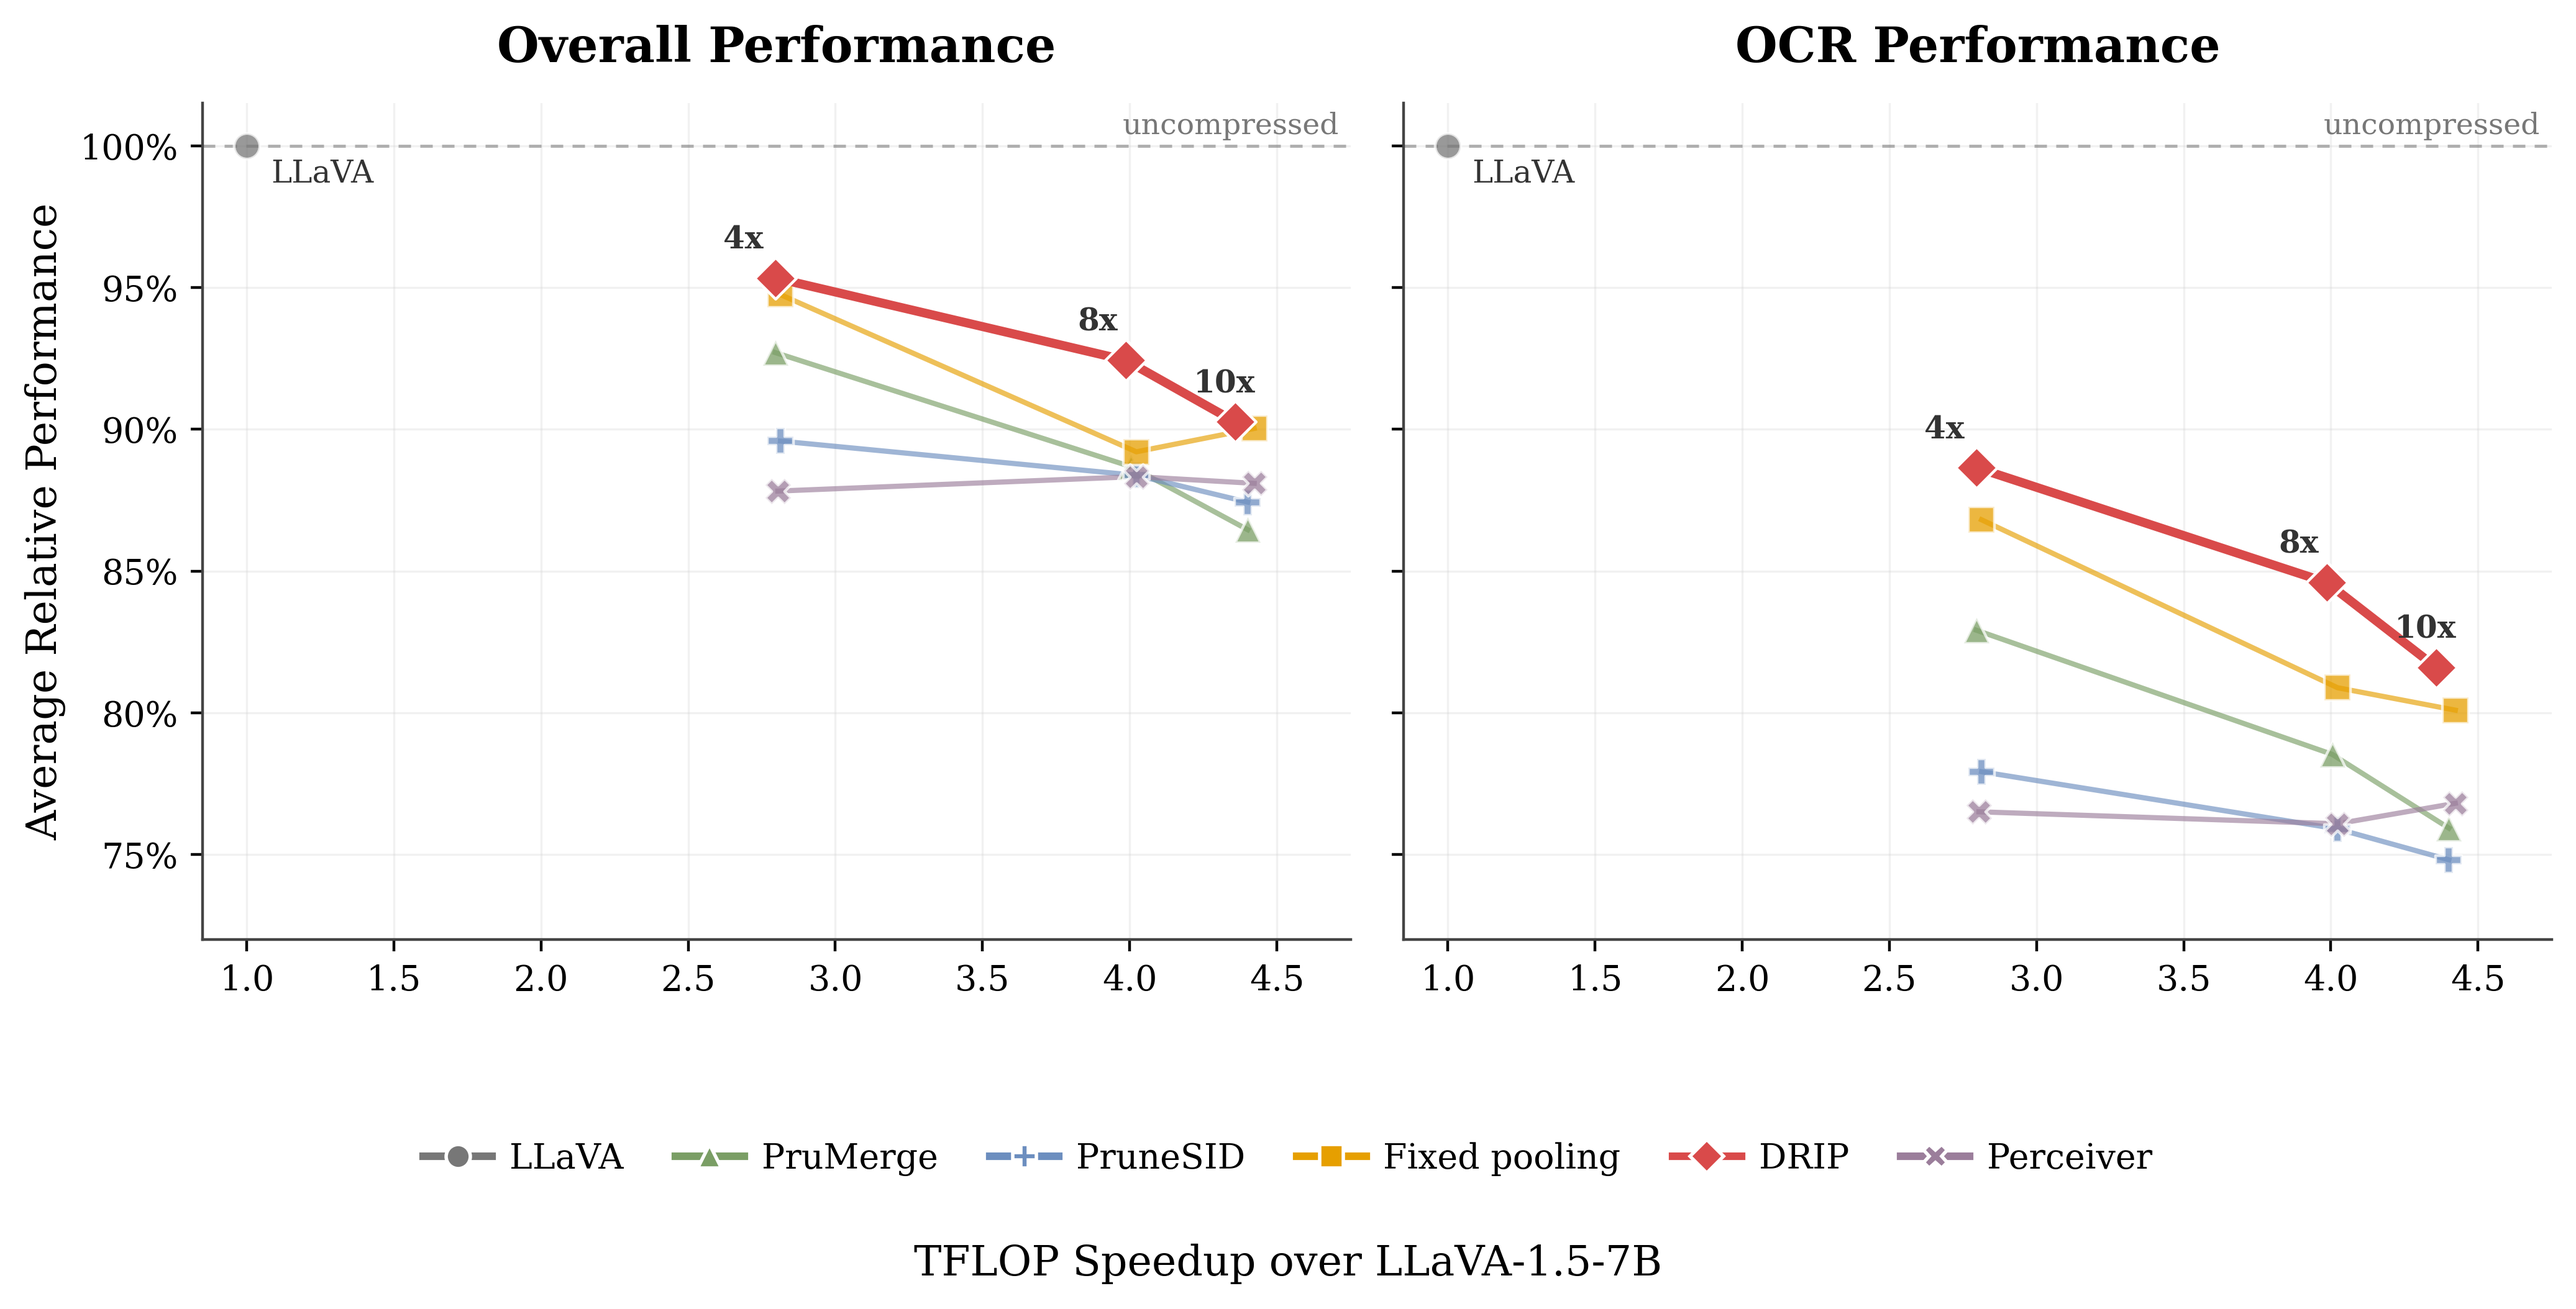
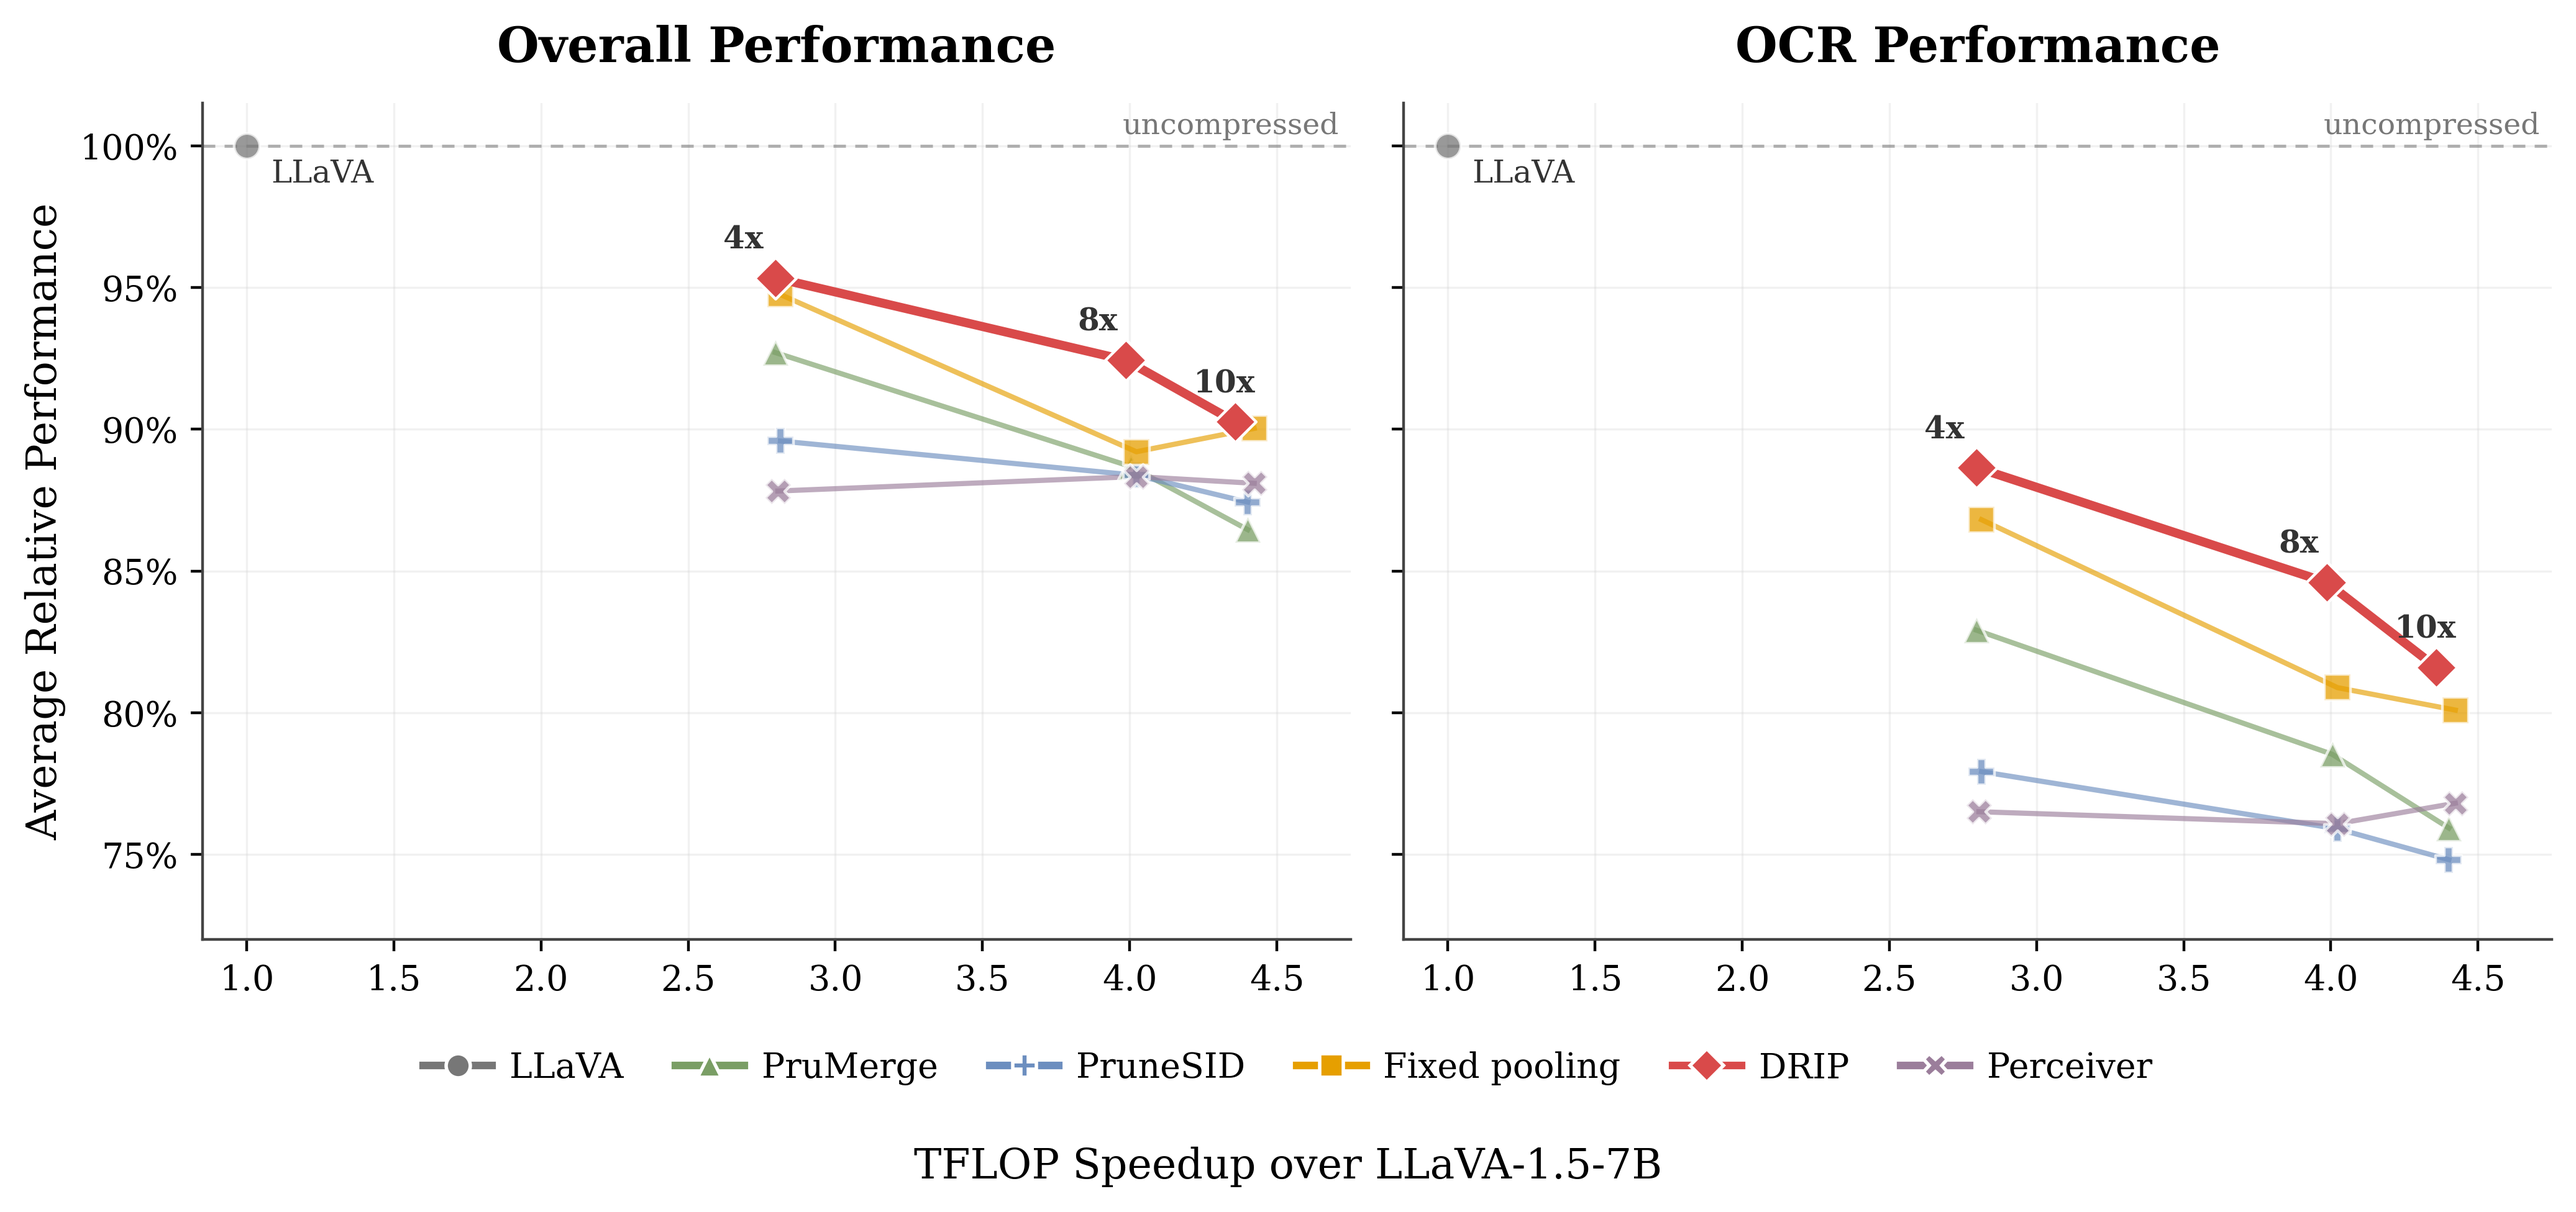
updated the tradeoff figure plot

diff --git a/src/tradeoff_analysis.py b/src/tradeoff_analysis.py
@@ -460,7 +460,7 @@ if __name__ == "__main__":
         loc="lower center",
         ncol=len(handles),
         frameon=False,
-        bbox_to_anchor=(0.5, 0.055),
+        bbox_to_anchor=(0.5, 0.125),
         columnspacing=1.5,
         handletextpad=0.5,
     )
@@ -472,9 +472,10 @@ if __name__ == "__main__":
     else:
 
         xlabel = "TFLOP Speedup over LLaVA-1.5-7B"
+
     fig.supxlabel(
         xlabel,
-        y=-0.005,
+        y=0.07,
         fontsize=12,
     )
     plt.tight_layout(rect=[0, 0.12, 1, 1])
